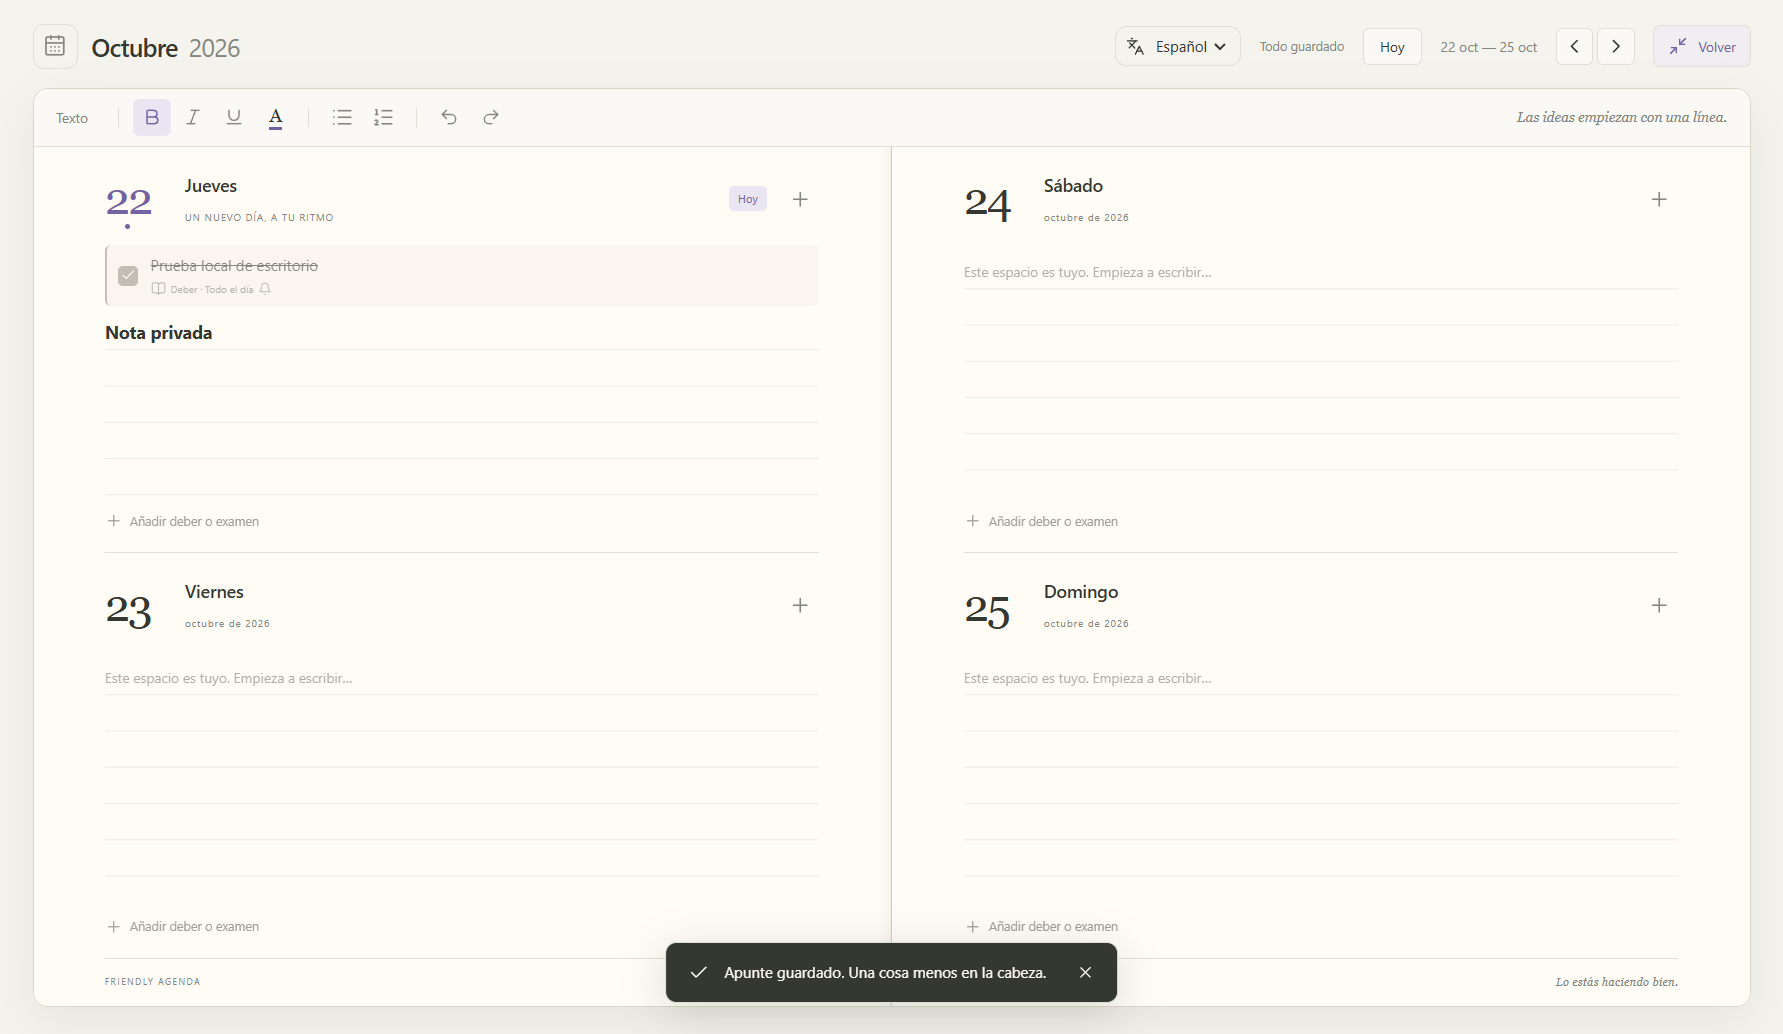
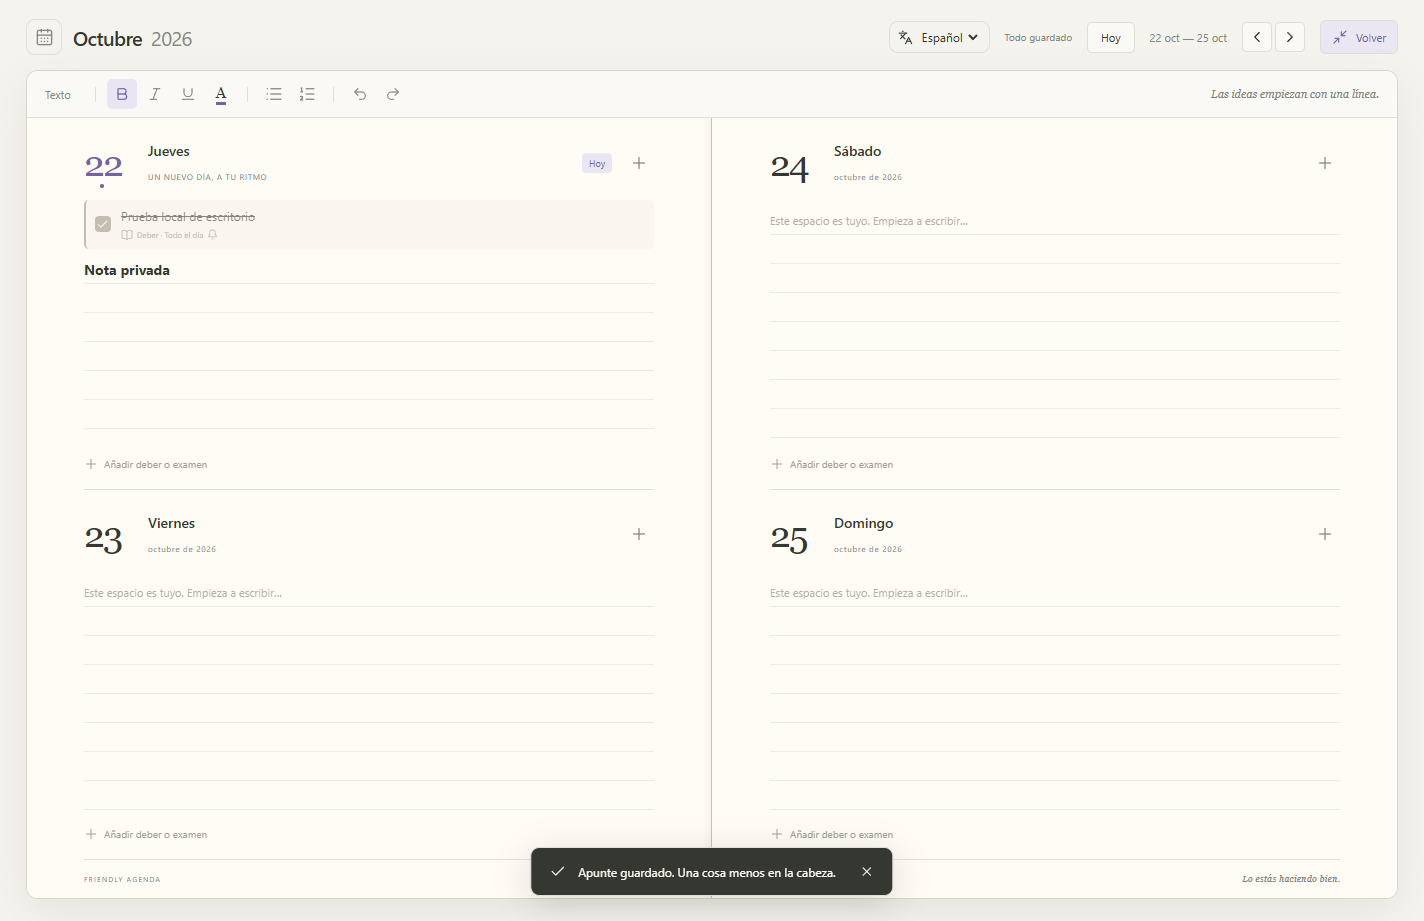
Record desktop verification and pending personal-account publication

diff --git a/.scratch/megaupdate/issues/01-implementacion.md b/.scratch/megaupdate/issues/01-implementacion.md
@@ -1,9 +1,13 @@
 # Recordatorios e importación de calendarios
 
-Status: In progress
+Status: Done
 
 Labels: ready-for-agent
 
 ## Comments
 
-Implementación y pruebas locales de interfaz, lógica e integración de escritorio completadas. Pendiente verificar los paquetes en GitHub Actions y publicar la versión 0.5.0. Las pruebas de entrega usan un aviso simulado para no solicitar permisos ni mostrar avisos reales en las máquinas de prueba; prueban el planificador, el historial, la integración IPC y el cierre/restauración de la bandeja.
+Implementación y pruebas completadas. La ejecución 39773880971 ha compilado y probado Windows x64, macOS arm64 y macOS x64 desde 0690248: 27 pruebas de lógica, 23 de interfaz y dos de escritorio por plataforma. La revisión final añade validación de CSV, un ensayo de cumpleaños anuales y ajustes de presentación; las 28 pruebas de lógica, los ensayos de interfaz afectados y las dos pruebas contra el paquete de Windows pasan localmente. El ejecutable de Windows 0.5.0 está generado.
+
+Las pruebas de entrega usan un aviso simulado para no solicitar permisos ni mostrar avisos reales en las máquinas de prueba; prueban el planificador, el historial, la integración IPC y el cierre/restauración de la bandeja. El botón Probar notificación permite verificar los permisos del sistema en el equipo del usuario.
+
+La regeneración final de Mac y la publicación se siguen en 02-publicacion.md.

diff --git a/.scratch/megaupdate/issues/02-publicacion.md b/.scratch/megaupdate/issues/02-publicacion.md
@@ -1,0 +1,13 @@
+# Publicar la versión 0.5.0
+
+Status: Waiting for input
+
+Labels: ready-for-human
+
+Blocked by: restaurar la sesión de GitHub de kuaanii en Git Credential Manager.
+
+## Comments
+
+El código inicial está subido y los tres paquetes han pasado GitHub Actions, ejecución 39773880971. Los ajustes finales están confirmados localmente. La cuenta personal dejó de estar disponible en Git Credential Manager durante la revisión; se ha solicitado iniciar sesión con `git credential-manager github login --username kuaanii --browser`. No utilizar la cuenta del instituto para publicar.
+
+Cuando se restaure: subir main, ejecutar Desktop builds sobre el commit final, comprobar los tres trabajos, descargar y verificar sus artefactos, preparar el archivo de código fuente y SHA256SUMS-0.5.0.txt, publicar la Release estable v0.5.0 con los cinco archivos y comprobar los enlaces del actualizador para Windows, macOS arm64 y macOS x64. Las notas y los ayudantes de publicación están preparados en release/, que está excluido del repositorio.
